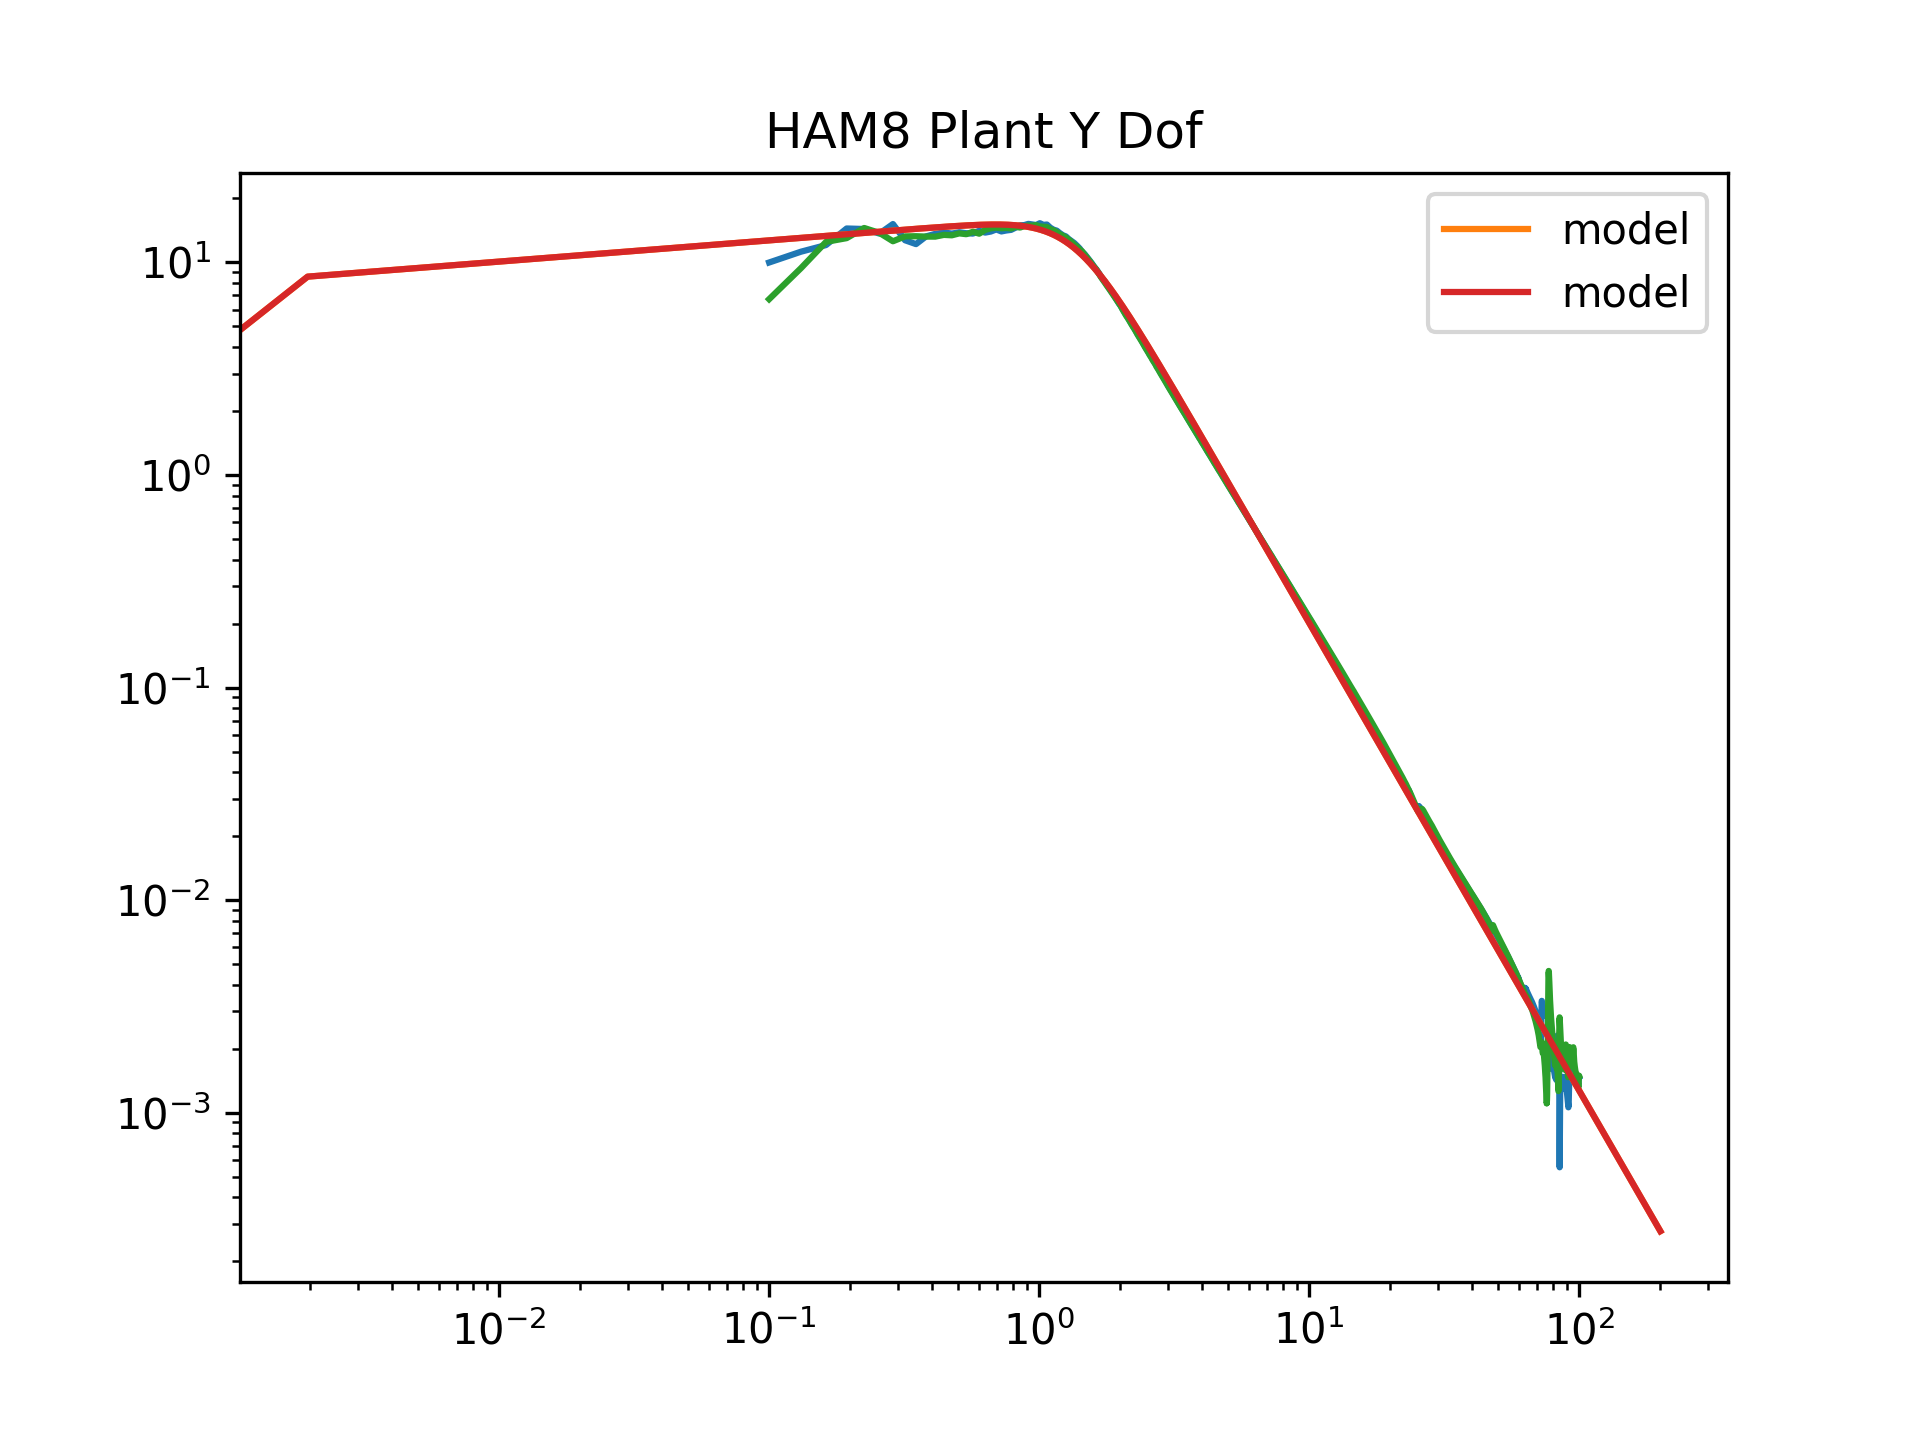
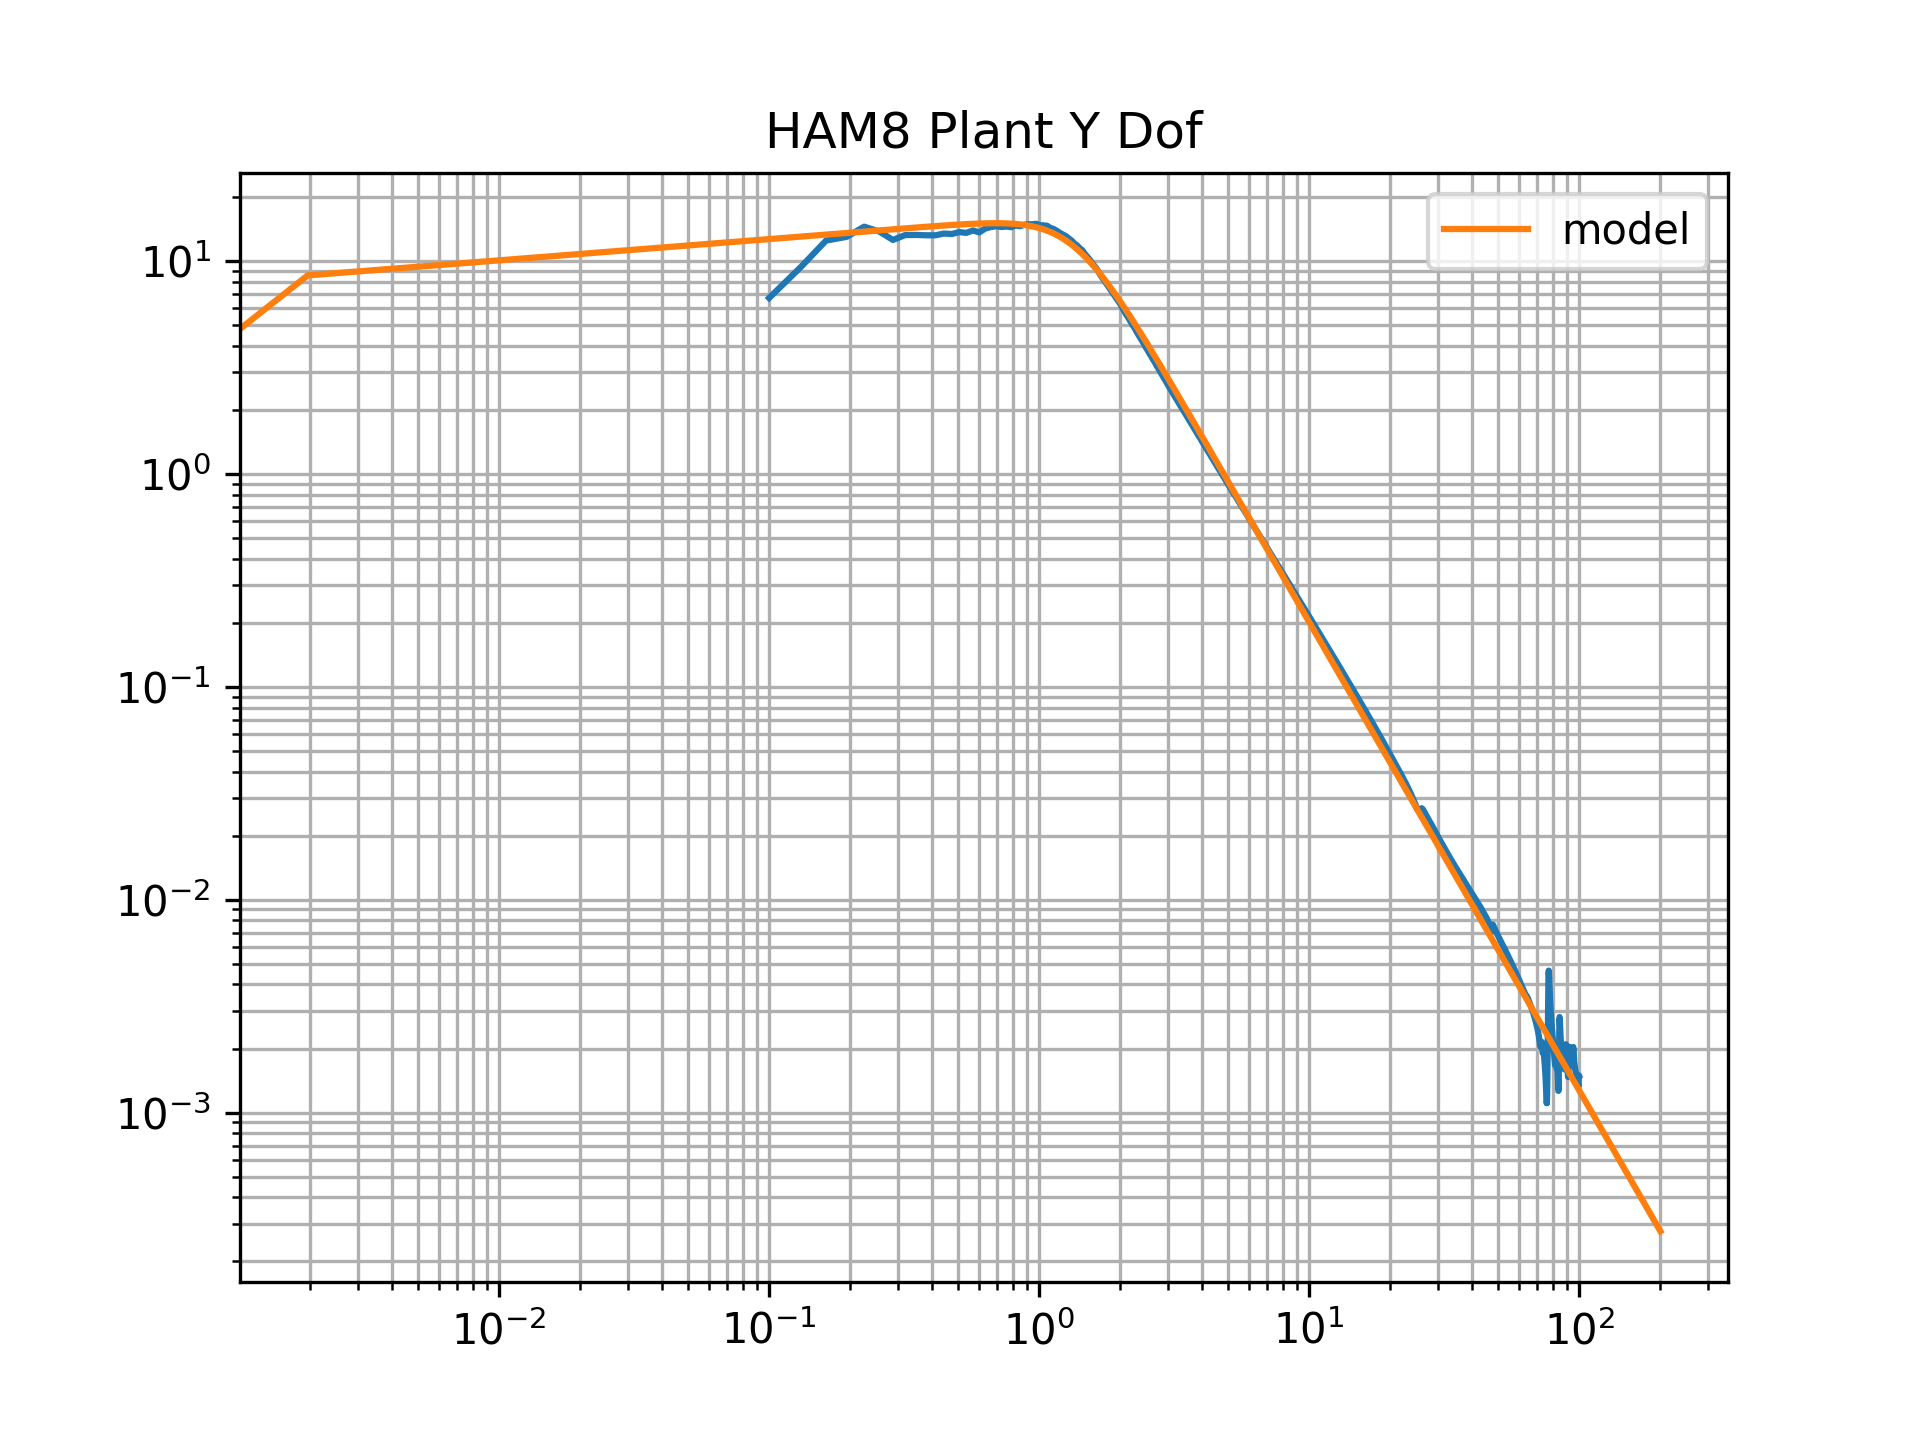
bugfix on plots

Changed region(s): [[0.0938, 0.125, 0.9062, 0.9062]]

diff --git a/sammie/sammie/plant_model_ham8.py b/sammie/sammie/plant_model_ham8.py
@@ -24,6 +24,7 @@ def ham8_plant_x():
     f_ = np.arange(0.0,200.0, 0.001953125)
     q = 160
     plant_ham8_x = noise_model(f_, a=0.1, b=-2.2,q=q, na=10, nb=5)
+    plt.clf()
     plt.loglog(f, abs(z_tf))
     plt.loglog(f_,plant_ham8_x , label="model")
     plt.title("HAM8 Plant X Dof")
@@ -48,6 +49,7 @@ def ham8_plant_y():
     f_ = np.arange(0.0,200.0, 0.001953125)
     q = 160
     plant_ham8_y = noise_model(f_, a=0.1, b=-2.2,q=q, na=10, nb=5)
+    plt.clf()
     plt.loglog(f, abs(z_tf))
     plt.loglog(f_,plant_ham8_y , label="model")
     plt.title("HAM8 Plant Y Dof")
@@ -72,6 +74,7 @@ def ham8_plant_z():
     f_ = np.arange(0.0,200.0, 0.001953125)
     q = 110
     plant_ham8_z = noise_model(f_, a=0.3, b=-2.2,q=q, na=11, nb=3)
+    plt.clf()
     plt.loglog(f, abs(z_tf))
     plt.loglog(f_,plant_ham8_z , label="model")
     plt.title("HAM8 Plant Z Dof")
